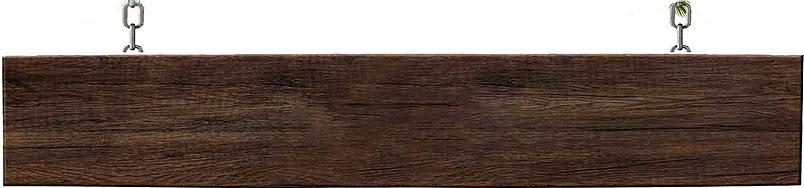
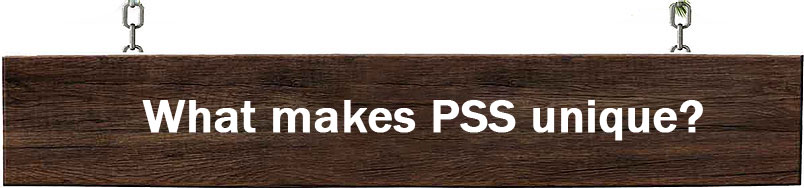
mobile responsive : homepage

Changed region(s): [[0.1555, 0.5319, 0.9017, 0.7447]]

diff --git a/src/components/pickblock.js b/src/components/pickblock.js
@@ -8,6 +8,9 @@ const PickDiv = styled.div`
 	flex-direction: row;
 	margin-top: 40px;
 	background: ${COLORS.White};
+	@media only screen and (max-width: 880px) {
+		display: block;
+	}
 `;
 
 const PickLeft = styled.div`
@@ -74,6 +77,26 @@ const PickLeft = styled.div`
 			background: #548eeb;
 		}
 	}
+
+	@media only screen and (max-width: 880px) {
+		width: 100%;
+		margin-bottom: 20px;
+		.pick_title { 
+			width: 80%;
+			font-size: 1.4rem;
+			height: 90px;
+			&:after {
+				right: -30px;
+				border-top: 90px solid #2052a4; 
+				border-right: 30px solid transparent; 
+			}
+			&:before {
+				left: -30px;
+				border-bottom: 90px solid #2052a4; 
+				border-left: 30px solid transparent; 
+			}
+		}
+	}
 `;
 const PickRight = styled.div`
 	width: 55%;
@@ -82,6 +105,14 @@ const PickRight = styled.div`
 	}
 	&.align-right {
 		text-align: right;
+	}
+
+	@media only screen and (max-width: 880px) {
+		width: 100%;
+		img {
+			width: 100%;
+			height: auto;
+		}
 	}
 `;
 

diff --git a/src/sections/home.js b/src/sections/home.js
@@ -56,12 +56,20 @@ const TitleSection = styled.section`
 `;
 const TitleDiv = styled.div`
   text-align: center;
-  min-height: 188px;
-  background: url('/assets/images/title.jpg') no-repeat center top;
+  position: relative;
+  display: flex;
+  justify-content: center;
   h2 {
     padding-top: 94px;
     font-size: 2.5rem;
     color: white;
+    position: relative;
+    z-index: 20;
+  }
+  img {
+    width: 100%;
+    max-width: 800px;
+    height: auto;
   }
 `;
 
@@ -96,7 +104,7 @@ export const Update = () => (
 export const PageTitle = () => (
   <TitleSection>
     <TitleDiv>
-      <h2>{Config["home"]["page_title"]}</h2>
+      <img src={Config["home"]["page_title_bg"]} alt="" />
     </TitleDiv>
   </TitleSection>
 );

diff --git a/src/config/config.js b/src/config/config.js
@@ -6,6 +6,7 @@ export const Config = {
         "tab_block_subtitle": "Order the shipping supplies you need to send holiday cheer from home. We have boxes, bubble wrap, and more for a low price.",
 
         "page_title": "What makes PSS unique?",
+        "page_title_bg": "/assets/images/title.jpg",
 
         "article1_title": "100% online shipping business",
         "article1_desc": "PSS is a 100% online shipping business. With our website, you can request a package to be picked up at any time and anywhere with no additional fees. Our goal is to make your life easier.",
